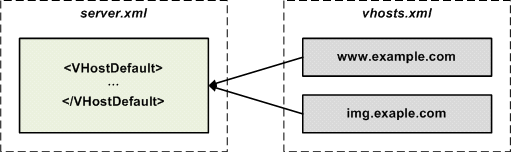
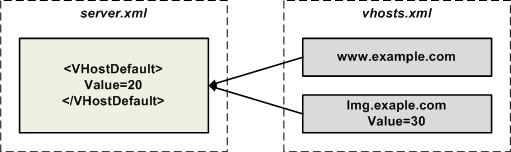
1
1

diff --git a/admin/03_environment.kr.rst b/admin/03_environment.kr.rst
@@ -134,8 +134,13 @@ Cache서비스 모듈을 설정한다. ::
    
       모든 가상호스트는 <VHostDefault>설정을 상속받는다.
 
+기본적으로 www.example.com과 img.example.com은 <VHostDefault>의 모든 설정을 상속받는다.
+www.example.com의 경우 별도로 덮어쓰기(Overriding)한 값이 없으므로 Value=20이 된다. 반면
+img.example.com은 Value=30으로 덮어쓰기했으므로 다른 모든 설정은 상속받지만 Value=30이 된다.
+이런 특성을 잘 활용하면 보다 쉽게 가상호스 설정이 가능하다.
+
 <VHostDefault>는 기능별로 묶인 5개의 하위 태그(캐싱옵션<Options>, 원본옵션<OriginOptions>, 
-미디어<Media>, 통계<Stats>, 로그<Log>)를 가진다. ::
+미디어<Media>, 통계<Stats>, 로그<Log>)를 가진다. 각 옵션에 대해서는 이 책을 통해 차차 설명한다. ::
 
     <VHostDefault>
         <Options> ... </Options>  
@@ -150,7 +155,7 @@ Cache서비스 모듈을 설정한다. ::
 <Https> 설정
 ------------------------------------------------
 
-HTTPS 서비스를 구성합니다. 자세한 내용은 **HTTPS 구성하기**를 참고하세요.
+HTTPS 서비스를 구성한다. 별도의 장에서 설명한다.
 
 
 
